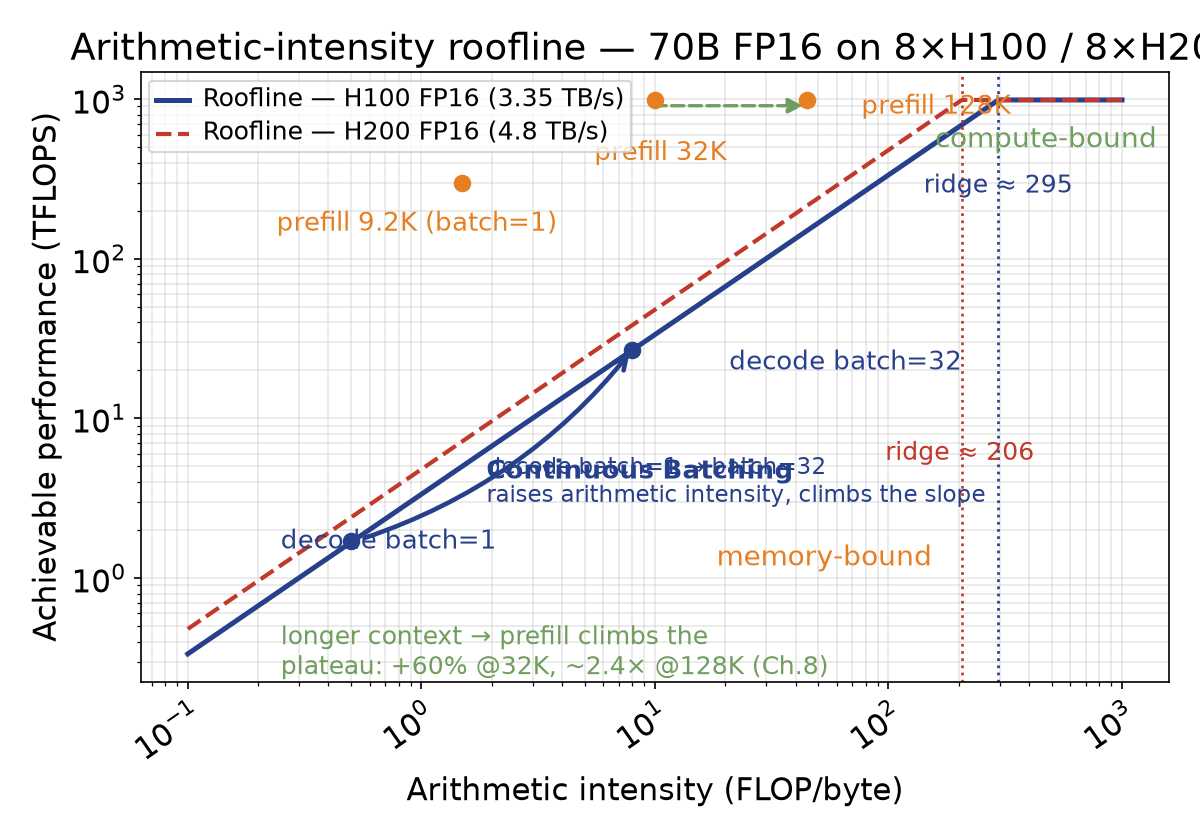
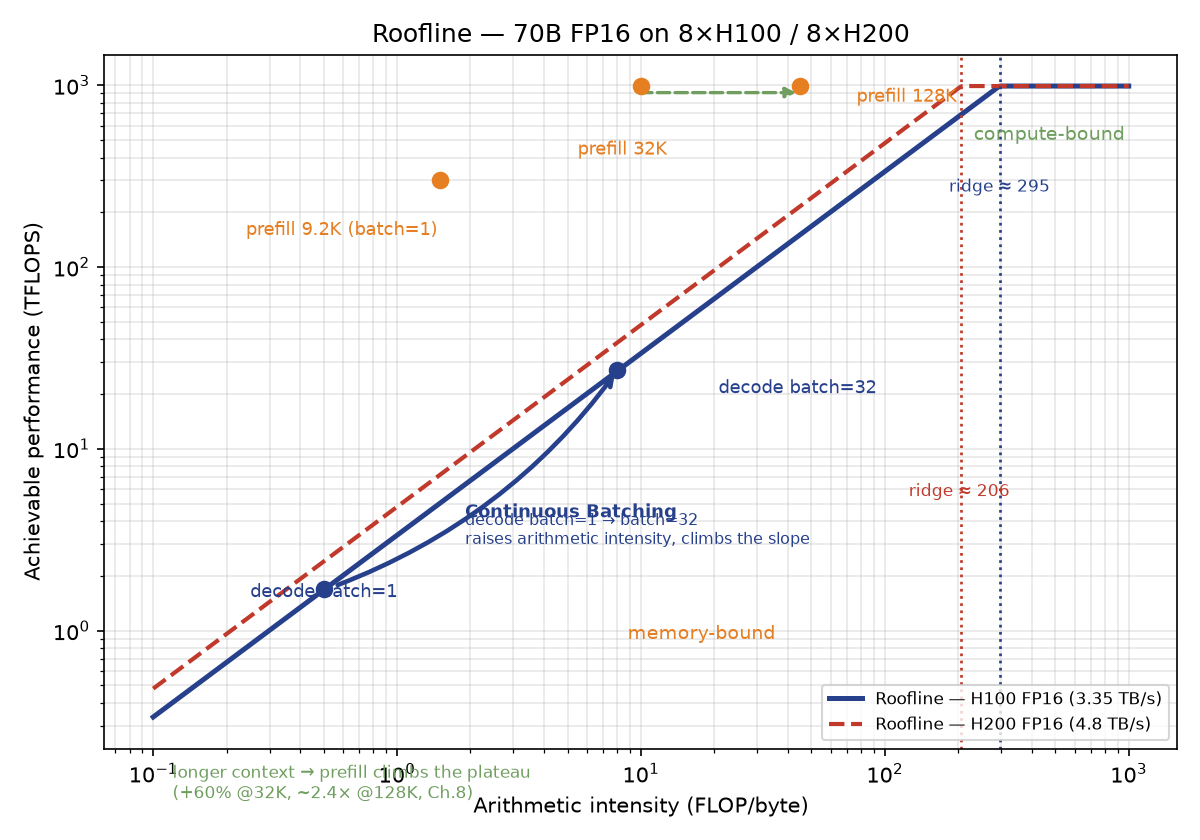
Fix Fig 8.1 roofline: unclipped title, cleaned annotation placement

Changed region(s): [[0.0, 0.031, 1.0, 0.9905], [0.5858, 0.4024, 0.8017, 0.4643]]

diff --git a/render/fig_ch8.py b/render/fig_ch8.py
@@ -63,16 +63,16 @@ for name, a, t, tag in pts:
 ax.annotate('', xy=(45, 989*0.92), xytext=(9.5, 989*0.92),
             arrowprops=dict(arrowstyle='-|>', lw=1.6, color='#6f9e5f', ls='--'))
 # drift explanation parked in the empty bottom-left (memory-bound), well clear of points
-ax.text(0.25, 0.25, 'longer context → prefill climbs the\nplateau: +60% @32K, ~2.4× @128K (Ch.8)',
+ax.text(0.12, 0.12, 'longer context → prefill climbs the plateau\n(+60% @32K, ~2.4× @128K, Ch.8)',
         fontsize=8, color='#6f9e5f')
 
 ax.set_xlabel('Arithmetic intensity (FLOP/byte)')
 ax.set_ylabel('Achievable performance (TFLOPS)')
-ax.set_title('Arithmetic-intensity roofline — 70B FP16 on 8×H100 / 8×H200')
+ax.set_title('Roofline — 70B FP16 on 8×H100 / 8×H200')
 ax.grid(alpha=0.3, which='both')
 ax.legend(fontsize=8, loc='lower right')
 ax.text(1.6*r100, 500, 'compute-bound', fontsize=9, color='#6f9e5f', ha='center')
-ax.text(0.18*r100, 1.2, 'memory-bound', fontsize=9, color='#e67e22', ha='center')
+ax.text(0.06*r100, 0.9, 'memory-bound', fontsize=9, color='#e67e22', ha='center')
 plt.tight_layout()
 plt.savefig('design/manuscript/chapter-08/figures/fig-08-0801.png', dpi=150)
 plt.close()
